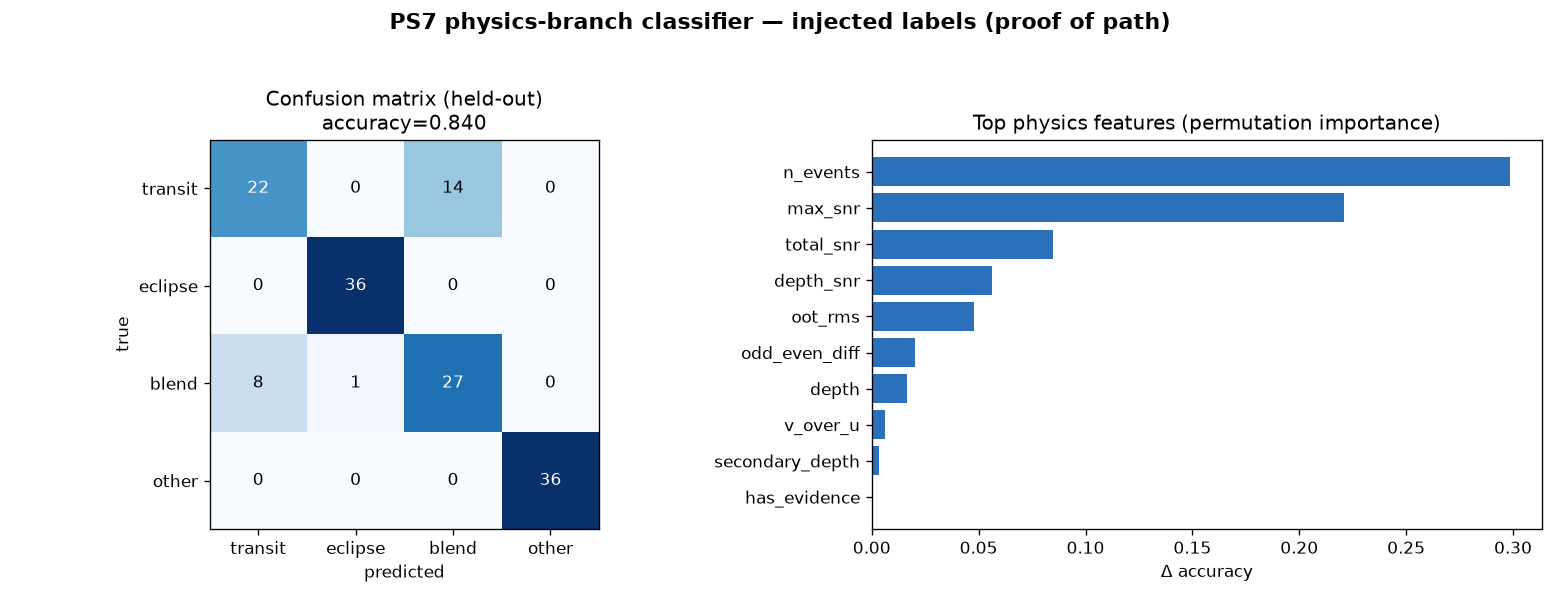
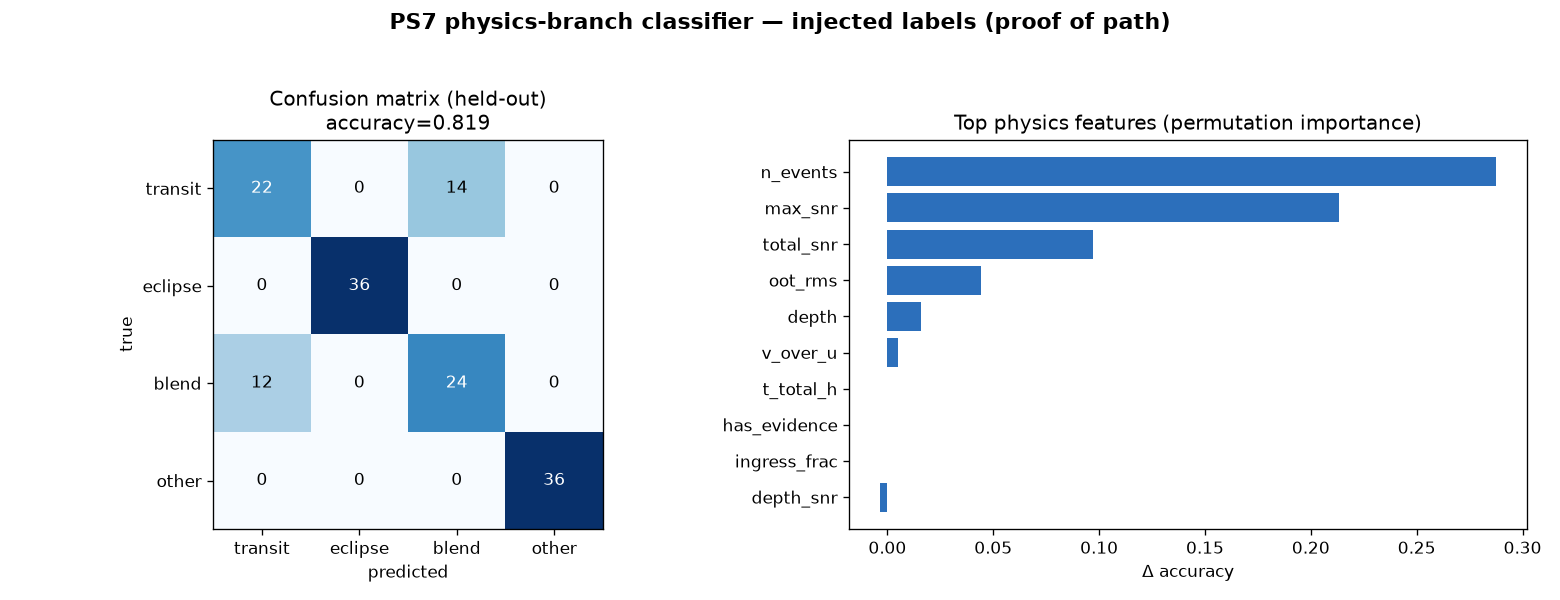
hackathon(bah2026-ps7): align to committee briefing — trapezoid shape-fit (step 03)
Committee walkthrough: depth does NOT separate planet from false positive
(both ~1.4%); SHAPE does (ingress/egress + flat-bottom, U vs V). Their stated
approach: build the classifier ON the transit shape parameters.

- shape_fit.py: symmetric trapezoid fit -> baseline, depth, total/ingress/flat
  durations, flat_frac (U-vs-V verdict) — reproduces their slide-5/6 output.
- characterization_demo.py + figs/characterization.png: on REAL data, EB
  flat-frac 0.26 (V/false-positive) vs Pi Men c 0.67 (U/planet).
- features.py: shape params added as classifier features.
- make_labeled_set.py: blends now V-shaped (diluted EBs); retrain 0.82,
  eclipse/other F1=1.00, transit<->blend is the known hard case (needs centroid).
- deck: process flow re-cast to the PS7 5-step methodology + new characterization
  slide; build_deck slide count dynamic. PDF rebuilt (10 slides).
- CHALLENGE.md: record committee-briefing refinements.

diff --git a/hackathon/prototype/characterization_demo.py b/hackathon/prototype/characterization_demo.py
@@ -1,0 +1,98 @@
+"""Reproduce the committee's step-03 characterization (slides 5/6) on REAL data.
+
+Fits the trapezoid shape to the folded EB (TIC 100029948) and the planet
+(Pi Mensae c) and renders a light-curve + best-fit + parameter panel for each,
+demonstrating the U-vs-V shape discrimination the committee emphasized.
+"""
+from __future__ import annotations
+import os, sys
+import numpy as np
+import matplotlib
+matplotlib.use("Agg")
+import matplotlib.pyplot as plt
+
+sys.path.insert(0, os.path.dirname(__file__))
+sys.path.insert(0, os.path.abspath(os.path.join(os.path.dirname(__file__), "..", "..", "research", "m3_calibration")))
+from shape_fit import fit_trapezoid, trapezoid, fold_to_hours, binned  # noqa: E402
+from detector import detect_events  # noqa: E402
+from features import DURATION_GRID, Z_EXTRACT  # noqa: E402
+
+HERE = os.path.dirname(__file__)
+CACHE = os.path.join(HERE, "cache"); FIGS = os.path.join(HERE, "figs")
+
+
+def load(tic):
+    d = np.load(os.path.join(CACHE, f"{tic}.npz")); return d["time"].astype(float), d["resid"].astype(float)
+
+
+def panel(ax_lc, ax_tx, t_h, flux, fit, title, color, window_h):
+    xb, yb = binned(t_h, flux, nb=70)
+    ax_lc.plot(t_h, flux, ".", ms=1.5, alpha=0.12, color="0.6")
+    ax_lc.plot(xb, yb, "o", ms=3, color=color, label="binned data")
+    if fit:
+        tt = np.linspace(-window_h, window_h, 600)
+        ax_lc.plot(tt, trapezoid(tt, fit["baseline_flux"], fit["depth"], 0.0,
+                                 fit["t_total_h"], fit["t_ingress_h"]),
+                   "-", color="#c0392b", lw=2, label="best-fit trapezoid")
+        for s in (-1, 1):
+            ax_lc.axvline(s * fit["t_total_h"] / 2, ls=":", color="#b9770e", lw=1)
+            ax_lc.axvline(s * fit["t_flat_h"] / 2, ls=":", color="0.4", lw=1)
+    ax_lc.set(title=title, xlabel="time from mid-transit (h)", ylabel="normalized flux",
+              xlim=(-window_h, window_h))
+    ax_lc.legend(fontsize=7, loc="lower right")
+
+    ax_tx.axis("off")
+    if not fit:
+        ax_tx.text(0.5, 0.5, "fit failed", ha="center"); return
+    lines = [("Estimated Parameters", ""),
+             ("Baseline flux", f"{fit['baseline_flux']:.6f}"),
+             ("Transit depth", f"{fit['depth']*100:.3f}%  ({fit['depth_ppm']:.0f} ppm)"),
+             ("Total duration", f"{fit['t_total_h']:.3f} h"),
+             ("Ingress/egress", f"{fit['t_ingress_h']:.3f} h"),
+             ("Flat-bottom", f"{fit['t_flat_h']:.3f} h"),
+             ("Flat fraction", f"{fit['flat_frac']:.2f}"),
+             ("", ""),
+             ("Shape verdict", fit["shape_verdict"])]
+    y = 0.95
+    for k, v in lines:
+        if k == "Estimated Parameters":
+            ax_tx.text(0.0, y, k, fontsize=12, weight="bold", color="#13294b")
+        elif k == "Shape verdict":
+            ax_tx.text(0.0, y, f"{k}:", fontsize=10, color="0.3")
+            ax_tx.text(0.0, y - 0.06, v, fontsize=11, weight="bold",
+                       color="#1e8449" if "planet" in v else "#c0392b")
+        elif k:
+            ax_tx.text(0.0, y, k, fontsize=10, color="0.3")
+            ax_tx.text(0.55, y, v, fontsize=11, weight="bold", color="#111")
+        y -= 0.10
+
+
+def main():
+    fig, axs = plt.subplots(2, 2, figsize=(13, 8),
+                            gridspec_kw={"width_ratios": [2.4, 1]})
+
+    # EB (real, deep V)
+    t, r = load(100029948); P = 1.386633
+    ev = detect_events(t, r, DURATION_GRID, z_for_extraction=Z_EXTRACT)
+    t0 = ev[int(np.argmax(ev[:, 1])), 0]
+    th, fx = fold_to_hours(t, r, P, t0, window_h=6)
+    xb, yb = binned(th, fx, 70)
+    fit = fit_trapezoid(xb, yb)
+    panel(axs[0, 0], axs[0, 1], th, fx, fit, "TIC 100029948 — eclipsing binary (real)", "#c0392b", 6)
+
+    # Pi Men c (real, shallow U)
+    t, r = load(261136679); tl = np.load(os.path.join(CACHE, "_pimen_tls.npz"))
+    th, fx = fold_to_hours(t, r, float(tl["period"]), float(tl["T0"]), window_h=8)
+    xb, yb = binned(th, fx, 60)
+    fit = fit_trapezoid(xb, yb)
+    panel(axs[1, 0], axs[1, 1], th, fx, fit, "Pi Mensae c — planet (real)", "#2c6fbb", 8)
+
+    fig.suptitle("Step 03 — Characterization by trapezoid shape fit (depth is equal; SHAPE separates planet from EB)",
+                 fontsize=13, weight="bold")
+    fig.tight_layout(rect=(0, 0, 1, 0.96))
+    out = os.path.join(FIGS, "characterization.png"); fig.savefig(out, dpi=120)
+    print("saved", out)
+
+
+if __name__ == "__main__":
+    main()

diff --git a/hackathon/prototype/shape_fit.py b/hackathon/prototype/shape_fit.py
@@ -1,0 +1,84 @@
+"""BAH2026 PS7 prototype — trapezoid transit-shape fit (committee step 03).
+
+The committee's own false-positive example proves DEPTH does not separate a
+planet from an eclipsing binary/false positive (both ~1.4%); the SHAPE does —
+specifically the ingress/egress duration and the flat-bottom fraction (U vs V).
+Their "Further Steps" slide says the classifier should be built ON the transit
+SHAPE PARAMETERS. This module fits the symmetric trapezoid and returns exactly
+the parameters shown on their slides 5/6.
+
+Model (time t in hours from mid-transit), symmetric trapezoid:
+  baseline f0                              for |t| >= T_tot/2
+  linear ingress/egress                    for T_flat/2 < |t| < T_tot/2
+  flat bottom f0 - depth                   for |t| <= T_flat/2
+with T_flat = T_tot - 2*T_ing.
+"""
+from __future__ import annotations
+import numpy as np
+from scipy.optimize import curve_fit
+
+
+def trapezoid(t, f0, depth, tc, t_tot, t_ing):
+    """Symmetric trapezoid transit. t, durations in hours; depth>0 = dip."""
+    t_tot = max(t_tot, 1e-3)
+    t_ing = float(np.clip(t_ing, 1e-3, t_tot / 2))
+    x = np.abs(t - tc)
+    half_tot, half_flat = t_tot / 2, t_tot / 2 - t_ing
+    y = np.zeros_like(x)
+    # ingress/egress ramp 0..1 between half_flat and half_tot
+    ramp = (half_tot - x) / max(t_ing, 1e-6)
+    frac = np.where(x <= half_flat, 1.0, np.where(x >= half_tot, 0.0, ramp))
+    return f0 - depth * np.clip(frac, 0, 1)
+
+
+def fit_trapezoid(t_hours, flux):
+    """Fit the trapezoid; return param dict + derived shape discriminators."""
+    t = np.asarray(t_hours, float); y = np.asarray(flux, float)
+    good = np.isfinite(t) & np.isfinite(y)
+    t, y = t[good], y[good]
+    f0_0 = np.median(y[np.abs(t) > 0.6 * np.ptp(t) / 2]) if t.size else 1.0
+    depth0 = max(f0_0 - np.min(y), 1e-4)
+    span = np.ptp(t)
+    p0 = [f0_0, depth0, 0.0, 0.4 * span, 0.1 * span]
+    bounds = ([f0_0 - 0.5, 1e-5, -span / 4, span * 0.02, 1e-3],
+              [f0_0 + 0.5, 1.0, span / 4, span, span / 2])
+    try:
+        popt, pcov = curve_fit(trapezoid, t, y, p0=p0, bounds=bounds, maxfev=20000)
+        perr = np.sqrt(np.clip(np.diag(pcov), 0, np.inf))
+    except Exception:
+        return None
+    f0, depth, tc, t_tot, t_ing = popt
+    t_flat = max(t_tot - 2 * t_ing, 0.0)
+    resid = y - trapezoid(t, *popt)
+    noise = 1.4826 * np.median(np.abs(resid - np.median(resid)))
+    return {
+        "baseline_flux": float(f0),
+        "depth": float(depth), "depth_ppm": float(depth * 1e6), "depth_err_ppm": float(perr[1] * 1e6),
+        "t_total_h": float(t_tot), "t_ingress_h": float(t_ing), "t_flat_h": float(t_flat),
+        "flat_frac": float(t_flat / t_tot) if t_tot > 0 else 0.0,        # U (~1) vs V (~0)
+        "ingress_frac": float(t_ing / t_tot) if t_tot > 0 else 0.0,      # V has large ingress_frac
+        "fit_noise": float(noise),
+        "shape_verdict": "U-shape (planet-like)" if (t_flat / max(t_tot, 1e-9)) > 0.35
+                         else "V-shape (EB / false-positive-like)",
+    }
+
+
+def fold_to_hours(time_days, resid, period_days, t0_days, window_h=8.0):
+    """Phase-fold and return (time-from-mid-transit [h], flux) within +/- window_h."""
+    ph = ((np.asarray(time_days, float) - t0_days) / period_days + 0.5) % 1.0 - 0.5
+    th = ph * period_days * 24.0
+    flux = 1.0 + np.asarray(resid, float)
+    m = np.abs(th) <= window_h
+    order = np.argsort(th[m])
+    return th[m][order], flux[m][order]
+
+
+def binned(x, y, nb=80):
+    b = np.linspace(x.min(), x.max(), nb + 1)
+    idx = np.digitize(x, b) - 1
+    xm, ym = [], []
+    for k in range(nb):
+        s = idx == k
+        if s.sum() >= 3:
+            xm.append(0.5 * (b[k] + b[k + 1])); ym.append(np.median(y[s]))
+    return np.array(xm), np.array(ym)

diff --git a/hackathon/deck/build_deck.py b/hackathon/deck/build_deck.py
@@ -111,19 +111,33 @@ def features_slide(fig):
 
 
 def flow_slide(fig):
-    _header(fig, "Process Flow", "5")
-    steps = ["Raw TESS LC\n(MAST sector)", "Conditioning\n(detrend+noise)", "Dip detection\n(evidence-first)",
-             "Period recovery\n(bootstrap FAP)", "Phase-fold +\nfeatures", "Hybrid classifier\n+ conformal",
-             "Confirm + SNR\n(LR gate)", "Param fit +\nvisualize"]
-    n = len(steps); x0, x1 = 0.06, 0.94; y = 0.5
+    _header(fig, "Process Flow — mirrors the PS7 5-step methodology", "5")
+    steps = [("01 Detrend", "wotan biweight\n→ flat LC"),
+             ("02 Identify", "dip detection +\nperiod, phase-fold"),
+             ("03 Characterize", "trapezoid fit:\ndepth, dur,\ningress, flat-bottom"),
+             ("04 Classify", "shape params →\ntransit/eclipse/\nblend/other"),
+             ("05 Significance", "SNR + formal\nsignificance")]
+    n = len(steps); x0, x1 = 0.07, 0.93; y = 0.55
     xs = [x0 + (x1 - x0) * i / (n - 1) for i in range(n)]
-    for i, (x, s) in enumerate(zip(xs, steps)):
-        fig.text(x, y, s, fontsize=10.5, ha="center", va="center", color="#111",
+    for i, (x, (h, s)) in enumerate(zip(xs, steps)):
+        fig.text(x, y + 0.06, h, fontsize=13, ha="center", va="center", color=NAVY, weight="bold")
+        fig.text(x, y - 0.05, s, fontsize=10, ha="center", va="center", color="#111",
                  bbox=dict(boxstyle="round,pad=0.5", fc="#eaf2ff", ec=ACCENT, lw=1.3))
         if i < n - 1:
-            fig.add_artist(plt.Line2D([x + 0.035, xs[i + 1] - 0.035], [y, y], color=GREY, lw=1.2))
-    fig.text(0.5, 0.25, "Front-end (conditioning → detection → period recovery) reused from the validated TRINETRA-X pipeline;\nclassifier + blend features + visualization are the new build.",
+            fig.add_artist(plt.Line2D([x + 0.045, xs[i + 1] - 0.045], [y, y], color=GREY, lw=1.4))
+    fig.text(0.5, 0.26, "Steps 01–02 reuse the validated TRINETRA-X spine (already benchmarked vs full TLS).",
              fontsize=12, ha="center", color=GREY)
+    fig.text(0.5, 0.21, "Step 03 trapezoid shape-fit feeds Step 04 — the committee's stated approach:\n\"build the AI classifier on the transit shape parameters.\"",
+             fontsize=12, ha="center", color=ACCENT, weight="bold")
+
+
+def char_slide(fig):
+    _header(fig, "Characterization & shape-based discrimination (step 03)", "6")
+    _img(fig, os.path.join(PROTO_FIGS, "characterization.png"), [0.04, 0.20, 0.92, 0.62])
+    fig.text(0.5, 0.13, "Depth is nearly identical for the EB and the planet — the TRAPEZOID SHAPE separates them:",
+             fontsize=12, ha="center", color="#111")
+    fig.text(0.5, 0.08, "EB flat-fraction 0.26 (V-shape, false positive)  vs  planet flat-fraction 0.67 (U-shape) — on real MAST data.",
+             fontsize=12, ha="center", color=ACCENT, weight="bold")
 
 
 def arch_slide(fig):
@@ -164,12 +178,13 @@ def poc_slide(fig):
 
 
 def main():
+    slides = [title_slide, team_slide, opportunity_slide, features_slide,
+              flow_slide, char_slide, arch_slide, tech_slide, cost_slide, poc_slide]
     with PdfPages(OUT) as pdf:
-        for fn in [title_slide, team_slide, opportunity_slide, features_slide,
-                   flow_slide, arch_slide, tech_slide, cost_slide, poc_slide]:
+        for fn in slides:
             _page(pdf, fn)
     size_mb = os.path.getsize(OUT) / 1e6
-    print(f"deck -> {OUT}  ({size_mb:.2f} MB, 9 slides)")
+    print(f"deck -> {OUT}  ({size_mb:.2f} MB, {len(slides)} slides)")
 
 
 if __name__ == "__main__":

diff --git a/hackathon/prototype/features.py b/hackathon/prototype/features.py
@@ -119,7 +119,31 @@ def extract_features(time, resid, *, duration_grid=DURATION_GRID,
     else:
         f["v_over_u"] = np.nan
 
+    # --- trapezoid shape-fit parameters (committee step 03; THE discriminator) ---
+    f.update(_shape_features(t, r, P, t0, dur))
     return f
+
+
+def _shape_features(t, r, P, t0, dur):
+    """Fold + fit trapezoid -> flat_frac, ingress_frac, t_total_h, fit depth (U vs V)."""
+    out = {"flat_frac": np.nan, "ingress_frac": np.nan,
+           "t_total_h": np.nan, "fit_depth_ppm": np.nan}
+    try:
+        from shape_fit import fit_trapezoid, fold_to_hours, binned
+        win = max(6.0, dur * 24 * 3)
+        th, fx = fold_to_hours(t, r, P, t0, window_h=win)
+        if th.size < 30:
+            return out
+        xb, yb = binned(th, fx, 60)
+        if xb.size < 8:
+            return out
+        sf = fit_trapezoid(xb, yb)
+        if sf:
+            out.update(flat_frac=sf["flat_frac"], ingress_frac=sf["ingress_frac"],
+                       t_total_h=sf["t_total_h"], fit_depth_ppm=sf["depth_ppm"])
+    except Exception:
+        pass
+    return out
 
 
 FEATURE_ORDER = [
@@ -127,4 +151,5 @@ FEATURE_ORDER = [
     "max_snr", "total_snr", "best_dur_days", "period_days", "fold_R",
     "depth", "depth_snr", "duration_frac", "odd_even_diff",
     "secondary_depth", "secondary_ratio", "v_over_u",
+    "flat_frac", "ingress_frac", "t_total_h", "fit_depth_ppm",
 ]

diff --git a/hackathon/prototype/make_labeled_set.py b/hackathon/prototype/make_labeled_set.py
@@ -45,11 +45,18 @@ def _time_grids(n):
 
 
 def _transit(t, t0, P, depth, dur):
-    """Simple analytic trapezoid/U transit (depth>0 = dip). dur in days."""
+    """U-shaped (flat-bottomed, box-like) transit — planet. depth>0 = dip; dur in days."""
     ph = ((t - t0) / P + 0.5) % 1.0 - 0.5
     x = np.abs(ph) * P / (dur / 2)          # 0 at center, 1 at contact
     u = np.clip(1 - x, 0, 1)
-    return -depth * np.sqrt(np.clip(1 - (1 - u) ** 2, 0, 1))   # rounded (U-ish)
+    return -depth * np.sqrt(np.clip(1 - (1 - u) ** 2, 0, 1))   # rounded flat-bottom (U)
+
+
+def _vshape(t, t0, P, depth, dur):
+    """V-shaped (pointed, short flat bottom) dip — eclipsing binary / diluted blend."""
+    ph = ((t - t0) / P + 0.5) % 1.0 - 0.5
+    x = np.abs(ph) * P / (dur / 2)          # 0 at center, 1 at contact
+    return -depth * np.clip(1 - x, 0, 1)    # linear -> V
 
 
 def _inject(kind, t, rms, rng):
@@ -62,7 +69,7 @@ def _inject(kind, t, rms, rng):
         sig = _transit(t, t0, P, depth, dur)
     elif kind == "eclipse":
         depth = rng.uniform(0.03, 0.20)
-        sig = _transit(t, t0, P, depth, dur)
+        sig = _vshape(t, t0, P, depth, dur)          # deep V
         # odd-even alternation
         cyc = np.round((t - t0) / P).astype(int)
         sig[cyc % 2 == 1] *= rng.uniform(0.6, 0.85)
@@ -71,10 +78,10 @@ def _inject(kind, t, rms, rng):
         sec = np.abs(ph - 0.5) < (dur / 2 / P)
         sig[sec] += -depth * rng.uniform(0.2, 0.5)
     elif kind == "blend":
-        depth = rng.uniform(0.0008, 0.008)      # shallow like a planet...
-        sig = _transit(t, t0, P, depth, dur)
+        depth = rng.uniform(0.0008, 0.008)           # shallow like a planet...
+        sig = _vshape(t, t0, P, depth, dur)          # ...but V-shaped (diluted EB)
         cyc = np.round((t - t0) / P).astype(int)
-        sig[cyc % 2 == 1] *= rng.uniform(0.5, 0.8)   # ...but odd-even tell
+        sig[cyc % 2 == 1] *= rng.uniform(0.5, 0.8)   # ...with odd-even tell
         ph = ((t - t0) / P) % 1.0
         sec = np.abs(ph - 0.5) < (dur / 2 / P)
         sig[sec] += -depth * rng.uniform(0.3, 0.6)   # ...and a secondary tell

diff --git a/hackathon/BAH2026_PS7_CHALLENGE.md b/hackathon/BAH2026_PS7_CHALLENGE.md
@@ -76,6 +76,32 @@
 
 ---
 
+## 2a. Committee briefing — refinements (from the live PS7 walkthrough)
+
+The committee's spoken walkthrough + slides sharpen the written PS7. **Authoritative refinements:**
+
+- **Explicit 5-step methodology:** (01) **Detrending** → (02) **Identification** (phase-fold) →
+  (03) **Characterization** (transit-shape fit) → (04) **Classification** → (05) **Statistical
+  significance**. Then: build the AI classifier **on the transit shape parameters**, train on the
+  curated/known set, apply to the unknown set, output parameters + significance.
+- **THE key insight (their false-positive slide):** a planet and a false positive can have
+  **nearly identical depth** (both ~1.4%). **Depth does NOT discriminate — SHAPE does:** the
+  **ingress/egress duration** and **flat-bottom fraction** (U-shape = planet vs V-shape = EB/FP).
+  → the classifier must be built on **trapezoid shape-fit parameters**, not depth/SNR alone.
+- **Class taxonomy (spoken):** transit *present or not*; and if present — **planet**, **massive
+  planet**, **star-on-star (EB)**, or **detector/systematic (other)**; plus **blends** (written PS).
+  Depth → planet radius gives the planet vs massive-planet distinction.
+- **Data (confirmed):** "TESS raw light curves (Target / unknown Data)" + "a curated dataset for
+  classifiers to train the AI model." Train on known → apply to unknown. (Missions named: TESS focus;
+  Kepler/K2 mentioned as analogues.)
+- **Evaluation = three things:** robustness of the AI classifier; accuracy of recovered transit
+  signatures/parameters; significance levels. (Matches the written criteria.)
+
+**Our response (implemented in `prototype/shape_fit.py` + `characterization_demo.py`):** a trapezoid
+shape-fit reproducing their slide-5/6 "Estimated Parameters" on **real** data — EB flat-fraction 0.26
+(V-shape, false positive) vs Pi Men c flat-fraction 0.67 (U-shape, planet). Shape params are now
+classifier features (`features.py`). This puts us on-method for steps 01–05.
+
 ## 3. Mapping to existing TRINETRA-X assets
 
 PS7 ≈ the TRINETRA-X spine **plus a learned multi-class classifier and crowded-field/blend handling**.

diff --git a/hackathon/prototype/README.md b/hackathon/prototype/README.md
@@ -49,6 +49,19 @@ that mimics a shallow planet). Top features: n_events, max_snr, depth_snr, **odd
 **secondary_depth** — confirming the physics tells drive the separation. The transit/blend
 gap is what **pixel-level centroid/difference-imaging features** (design §6) are for.
 
+## Characterization — trapezoid shape fit (committee step 03)
+`shape_fit.py` fits the symmetric trapezoid and returns the committee's slide-5/6 parameters
+(baseline, depth, total duration, ingress/egress, flat-bottom, flat-fraction → U-vs-V verdict).
+```bash
+.venv/bin/python hackathon/prototype/characterization_demo.py   # -> figs/characterization.png
+```
+Result on **real** data: EB (TIC 100029948) depth 26% but **flat-fraction 0.26 → V-shape /
+false-positive**; Pi Men c depth 279 ppm, **flat-fraction 0.67 → U-shape / planet**. This is the
+committee's central point — *depth does not separate planet from false positive; shape does* — and
+the shape params are now fed to the classifier (`features.py`). The shape fit cleanly handles the
+deep EB-vs-planet case (eclipse F1=1.00); the shallow **transit↔blend** case stays hard (noise-limited
+shape at low SNR) and is what pixel-level **centroid/difference-imaging** features address in round 2.
+
 ## Status / next (build phase)
 - Spine + extractor + physics-branch classifier all run end-to-end on real/realistic data.
 - Next: swap injected labels for the organizer's **curated set** (same interface); add the